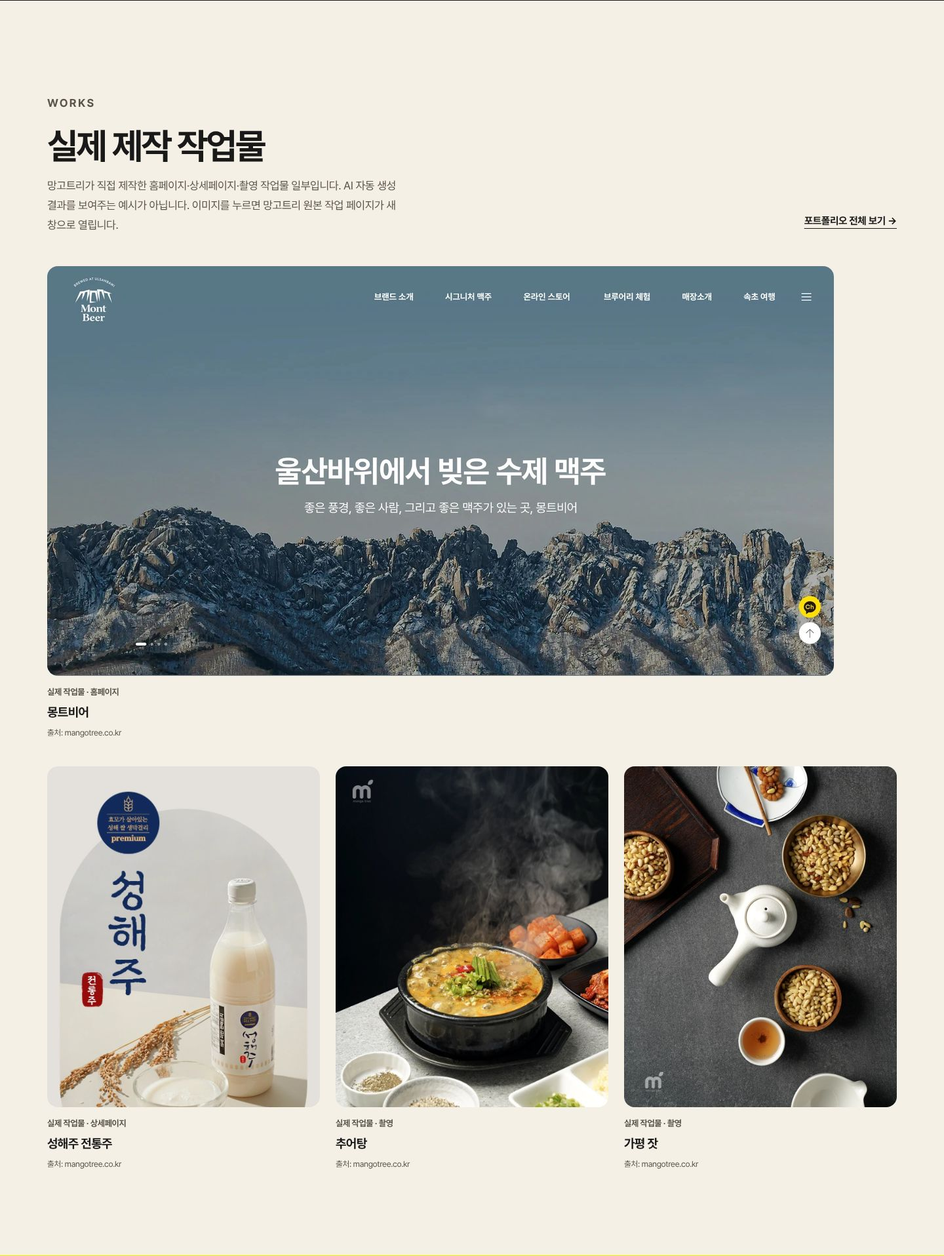
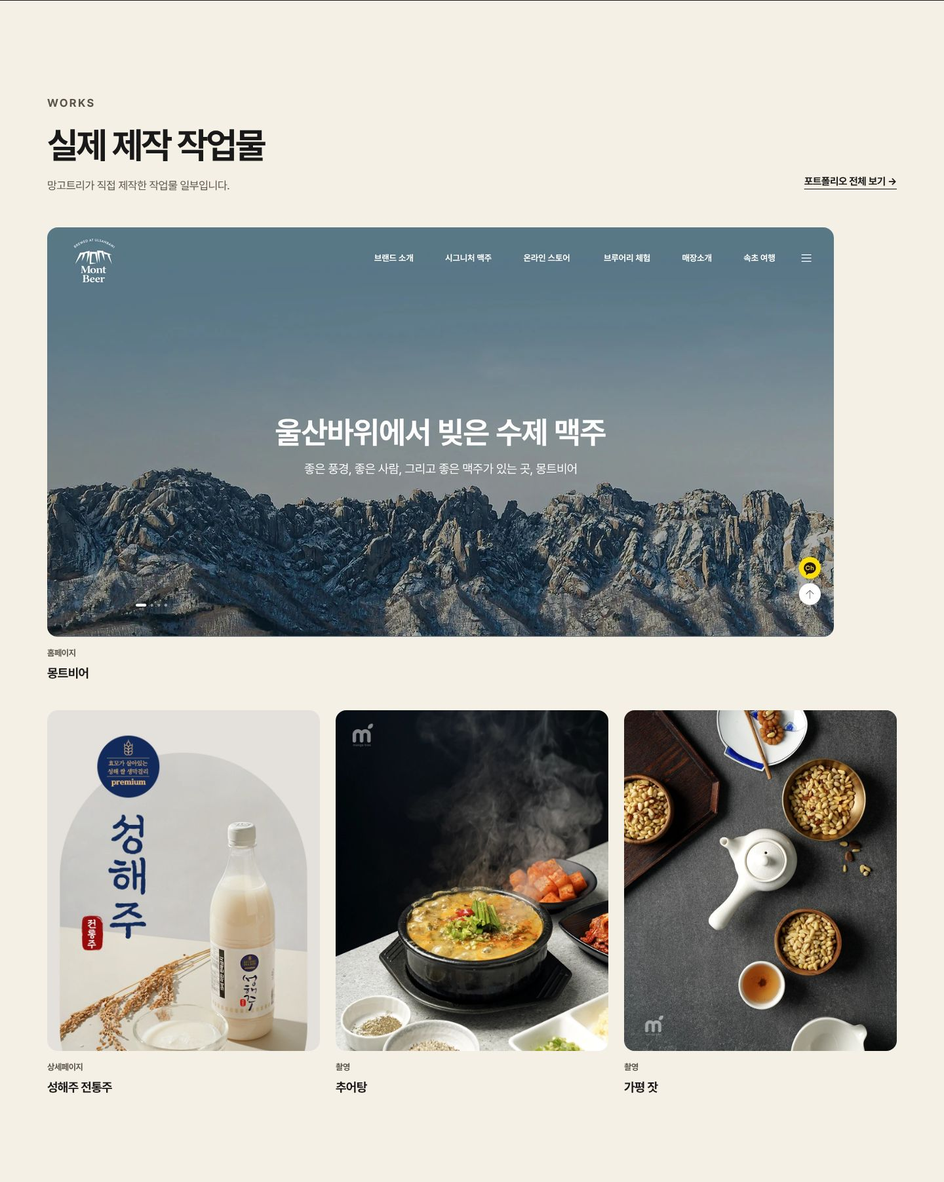
활용사례를 도입 전·후(BEFORE/AFTER) 비교 중심으로 재구성
- 4개 사례마다 BEFORE(도입 전 업무 예시, 회색 HTML 도식)·AFTER(도입 후 제안 흐름, 망고 옐로) 같은 크기 2열,
  흐름 3단계·짧은 문구·변화 요약 한 줄, 모바일은 전→후 세로, 색과 글자로 함께 구분
- 시나리오 03 AFTER는 기획용 스크린샷 대신 문의 분류→먼저 응대→상담원 연결 도식
- 이미지 밑 출처·캡처 날짜·배지·부연 설명 삭제(alt·원본 링크 유지), WORKS는 분류·작품명만
- 상단에 도입 전·후 비교 예시임을 한 줄로 명시, 허구 수치 없음
- usecase 전용 assets/usecase.css 추가, 다른 페이지 변경 없음, 문서 20절·캡처

Claude-Session: https://claude.ai/code/session_013fr5egeuLoPoF5PAHq2igq

diff --git a/usecase.html b/usecase.html
@@ -23,6 +23,7 @@
 <link rel="stylesheet" href="assets/base.css">
 <link rel="stylesheet" href="assets/site.css">
 <link rel="stylesheet" href="assets/sub.css">
+<link rel="stylesheet" href="assets/usecase.css">
 </head>
 <body class="sub">
 <a class="skip-link" href="#main">본문 바로가기</a>
@@ -31,39 +32,59 @@
 <section class="x-hero" aria-labelledby="xTitle">
   <div class="wrap">
     <p class="x-kicker">USE CASE</p>
-    <h1 id="xTitle">커머스 고민별<br><em>AI 도입 시나리오</em></h1>
+    <h1 id="xTitle">도입 전과 후,<br><em>달라지는 일하는 방식</em></h1>
     <div class="x-hero-foot">
-      <p>자주 듣는 네 가지 고민에 어떤 방향으로 AI를 적용하는지 정리했습니다. 실제 적용 범위와 순서는 진단과 상담에서 정합니다.</p>
-      <ul class="x-jump" aria-label="바로가기"><li><a href="#usecase">도입 시나리오</a></li><li><a href="#process">진행 방식</a></li><li><a href="#works">제작 작업물</a></li></ul>
+      <p>자주 듣는 네 가지 고민을 도입 전 업무와 도입 후 제안 흐름으로 나란히 비교했습니다. 실제 적용 범위와 순서는 진단과 상담에서 정합니다.</p>
+      <ul class="x-jump" aria-label="바로가기"><li><a href="#usecase">도입 전·후 비교</a></li><li><a href="#process">진행 방식</a></li><li><a href="#works">제작 작업물</a></li></ul>
     </div>
   </div>
 </section>
 
 <section class="x-sec" id="usecase" aria-labelledby="xScen">
   <div class="wrap">
-    <div class="x-head"><div><p class="x-kicker">SCENARIOS</p><h2 id="xScen">이런 고민에는<br>이렇게 접근합니다</h2>
-    <p>고객의 고민 → 처리 과정 → 보게 될 화면 순서로 정리한 도입 시나리오입니다. 특정 고객의 성과 사례가 아니며, 화면마다 실제 작업물·실제 화면·공식 가이드 이미지를 구분해 표시했습니다.</p></div>
+    <div class="x-head"><div><p class="x-kicker">BEFORE · AFTER</p><h2 id="xScen">네 가지 고민,<br>도입 전과 후</h2>
+    <p class="ba-note">도입 전·후 업무 흐름을 비교한 예시입니다. 실제 적용 범위는 상담에서 정합니다.</p></div>
     <a class="x-link" href="products.html">6가지 AI 제품 보기 →</a></div>
-    <ol class="x-scen x-uc">
-      <li id="scen-1">
-        <span class="x-num">01</span>
-        <div class="x-uc-text"><p class="x-quote">"상품이 잘 안 팔려요"</p><div class="x-dir"><h3>상세페이지와 추천을 함께 개선</h3><p>상품의 강점(USP)이 한눈에 보이도록 상세페이지를 다시 설계하고, 고객 관심사에 맞는 상품을 추천해 구매 결정을 돕습니다.</p><ol class="x-uc-steps" aria-label="처리 과정"><li>진단으로 강점·부족한 점 정리</li><li>상세페이지 재구성·제작</li><li>추천 영역 적용 검토</li></ol><ul class="x-rel" aria-label="관련 제품"><li><a href="products.html#creative">AI CREATIVE</a></li><li><a href="products.html#commerce">AI COMMERCE</a></li><li><a href="platforms.html#pagemaker">페이지메이커</a></li></ul></div></div>
-        <figure class="x-uc-shot tall"><a class="x-uc-frame" href="https://mangotree.co.kr/shop/item.php?it_id=1791434755" target="_blank" rel="noopener noreferrer" tabindex="-1" aria-hidden="true"><img src="assets/usecase/smart-card-detail.webp" width="860" height="1625" alt="스마트카드태그 상세페이지 상단: 싱스원 듀얼 파인드 카드 태그 제품명과 애플·구글 위치 찾기 지원 안내, 카드 제품 사진" loading="lazy" decoding="async"></a><figcaption><span class="wf-badge live">실제 작업물 · 망고트리 제작 상세페이지</span><span class="x-uc-cite">스마트카드태그 상세페이지 일부 · <a href="https://mangotree.co.kr/shop/item.php?it_id=1791434755" target="_blank" rel="noopener noreferrer">원본 작업 페이지<span class="sr-only"> (새 창)</span> ↗</a></span></figcaption></figure>
+    <ol class="ba-list">
+      <li class="ba-case" id="scen-1">
+        <div class="ba-head"><span class="x-num">01</span><p class="x-quote">"상품이 잘 안 팔려요"</p><h3>상세페이지와 추천을 함께 개선</h3></div>
+        <div class="ba-grid">
+          <div class="ba-card before"><p class="ba-label"><span class="ba-tag">BEFORE</span>도입 전 업무 예시</p><ol class="ba-flow" aria-label="도입 전 흐름"><li>상품 정보 입력</li><li>그대로 나열</li><li>게시</li></ol><div class="ba-visual"><div class="ba-sketch" role="img" aria-label="도입 전 예시 도식: 제품명, 용량, 성분, 가격, 배송 안내, 교환 안내가 모두 같은 크기로 나열된 상세페이지"><div class="sk-page"><b>제품명</b><span>용량 · 규격</span><span>성분 · 원재료</span><span>가격</span><span>배송 안내</span><span>교환 · 반품 안내</span><span>보관 방법</span><i>모든 정보가 같은 크기</i></div></div></div><ul class="ba-points"><li>제품명·성분·가격·배송 안내가 같은 비중으로 나열</li><li>구매할 이유가 한눈에 보이지 않음</li><li>함께 볼 상품 안내가 없음</li></ul></div>
+          <span class="ba-arrow" aria-hidden="true"></span>
+          <div class="ba-card after"><p class="ba-label"><span class="ba-tag">AFTER</span>도입 후 제안 흐름</p><ol class="ba-flow" aria-label="도입 후 흐름"><li>강점 정리</li><li>상세페이지 구성·제작</li><li>담당자 검수</li></ol><figure class="ba-visual ba-shot tall"><a href="https://mangotree.co.kr/shop/item.php?it_id=1791434755" target="_blank" rel="noopener noreferrer" tabindex="-1" aria-hidden="true"><img src="assets/usecase/smart-card-detail.webp" width="860" height="1625" alt="스마트카드태그 상세페이지 상단: 싱스원 듀얼 파인드 카드 태그 제품명과 애플·구글 위치 찾기 지원 안내, 카드 제품 사진" loading="lazy" decoding="async"></a></figure><ul class="ba-points"><li>진단으로 강점과 부족한 점을 먼저 정리</li><li>강점이 먼저 보이도록 구성하고 담당자가 검수</li><li>관심사에 맞는 추천 영역 적용 검토</li></ul></div>
+        </div>
+        <p class="ba-sum"><b>변화 요약</b>같은 정보를 나열하던 페이지를, 강점 순서로 정리하고 검수한 상세페이지로 바꿉니다.</p>
+        <ul class="x-rel" aria-label="관련 제품"><li><a href="products.html#creative">AI CREATIVE</a></li><li><a href="products.html#commerce">AI COMMERCE</a></li><li><a href="platforms.html#pagemaker">페이지메이커</a></li></ul>
       </li>
-      <li id="scen-2">
-        <span class="x-num">02</span>
-        <div class="x-uc-text"><p class="x-quote">"콘텐츠 만들 시간이 없어요"</p><div class="x-dir"><h3>이미지·영상 소재 제작을 지원</h3><p>상품 정보를 바탕으로 상세컷·SNS·영상 소재 제작을 AI 도구와 디자이너가 함께 진행합니다.</p><ol class="x-uc-steps" aria-label="처리 과정"><li>기획 방향 정리</li><li>AI 도구로 초안·소재 생성</li><li>디자이너 검수·보정</li></ol><ul class="x-rel" aria-label="관련 제품"><li><a href="products.html#creative">AI CREATIVE</a></li><li><a href="platforms.html#pagemaker">페이지메이커</a></li><li><a href="portfolio.html">제작 작업물</a></li></ul></div></div>
-        <figure class="x-uc-shot wide"><a class="x-uc-frame" href="https://pagemaker.ai.kr/" target="_blank" rel="noopener noreferrer" tabindex="-1" aria-hidden="true"><img src="assets/work/pagemaker.jpg" width="1178" height="589" alt="페이지메이커 AI 이미지 화면: 설명 입력창과 AI 상세페이지·배너·카드뉴스 등 제작 메뉴" loading="lazy" decoding="async"></a><figcaption><span class="wf-badge live">실제 화면 · 2026-10-30 캡처</span><span class="x-uc-cite">페이지메이커 AI 이미지 제작 화면 · <a href="https://pagemaker.ai.kr/" target="_blank" rel="noopener noreferrer">페이지메이커<span class="sr-only"> (새 창)</span> ↗</a></span></figcaption></figure>
+      <li class="ba-case" id="scen-2">
+        <div class="ba-head"><span class="x-num">02</span><p class="x-quote">"콘텐츠 만들 시간이 없어요"</p><h3>이미지·영상 소재 제작을 지원</h3></div>
+        <div class="ba-grid">
+          <div class="ba-card before"><p class="ba-label"><span class="ba-tag">BEFORE</span>도입 전 업무 예시</p><ol class="ba-flow" aria-label="도입 전 흐름"><li>기획</li><li>촬영·편집</li><li>채널별 수정</li></ol><div class="ba-visual"><div class="ba-sketch" role="img" aria-label="도입 전 예시 도식: 상품 A, B, C마다 기획, 촬영, 편집을 처음부터 반복"><div class="sk-repeat"><div class="sk-item"><b>상품 A</b><span>기획</span><span>촬영</span><span>편집</span></div><div class="sk-item"><b>상품 B</b><span>기획</span><span>촬영</span><span>편집</span></div><div class="sk-item"><b>상품 C</b><span>기획</span><span>촬영</span><span>편집</span></div><i>↻ 상품마다 처음부터 반복</i></div></div></div><ul class="ba-points"><li>상품마다 기획·촬영·편집을 처음부터 진행</li><li>채널마다 크기와 문구를 다시 맞춤</li><li>수정 요청이 쌓이면 일정이 밀림</li></ul></div>
+          <span class="ba-arrow" aria-hidden="true"></span>
+          <div class="ba-card after"><p class="ba-label"><span class="ba-tag">AFTER</span>도입 후 제안 흐름</p><ol class="ba-flow" aria-label="도입 후 흐름"><li>AI 초안</li><li>디자이너 검수</li><li>소재 완성</li></ol><figure class="ba-visual ba-shot"><a href="https://pagemaker.ai.kr/" target="_blank" rel="noopener noreferrer" tabindex="-1" aria-hidden="true"><img src="assets/work/pagemaker.jpg" width="1178" height="589" alt="페이지메이커 AI 이미지 화면: 설명 입력창과 AI 상세페이지·배너·카드뉴스 등 제작 메뉴" loading="lazy" decoding="async"></a></figure><ul class="ba-points"><li>AI 도구로 초안과 소재를 먼저 생성</li><li>디자이너가 검수하고 보정</li><li>같은 기획을 채널 규격에 맞게 정리</li></ul></div>
+        </div>
+        <p class="ba-sum"><b>변화 요약</b>매번 처음부터 만들던 소재를, AI 초안에서 시작해 디자이너가 다듬는 방식으로 바꿉니다.</p>
+        <ul class="x-rel" aria-label="관련 제품"><li><a href="products.html#creative">AI CREATIVE</a></li><li><a href="platforms.html#pagemaker">페이지메이커</a></li><li><a href="portfolio.html">제작 작업물</a></li></ul>
       </li>
-      <li id="scen-3">
-        <span class="x-num">03</span>
-        <div class="x-uc-text"><p class="x-quote">"고객 문의가 너무 많아요"</p><div class="x-dir"><h3>반복 문의에 AI 상담 적용</h3><p>자주 묻는 질문을 자연어로 답하는 AI 상담을 붙여 반복 문의 응대를 돕고, 상담원은 중요한 문의에 집중하게 합니다.</p><ol class="x-uc-steps" aria-label="처리 과정"><li>자주 묻는 질문·답변 정리</li><li>대화형 응대 화면 구성</li><li>상담원 연결 기준 설정</li></ol><ul class="x-rel" aria-label="관련 제품"><li><a href="products.html#agent-ai">AI AGENT</a></li><li><a href="products.html#commerce">AI COMMERCE</a></li></ul></div></div>
-        <figure class="x-uc-shot phone"><a class="x-uc-frame" href="https://page-writer-dckreoozc-mtree712-6778s-projects.vercel.app/" target="_blank" rel="noopener noreferrer" tabindex="-1" aria-hidden="true"><img src="assets/workflows/ai-planning.jpg" width="680" height="712" alt="망고트리 AI 기획 도우미 대화 화면: 인사말과 질문, 상세페이지·홈페이지·카탈로그·포장디자인 선택 버튼" loading="lazy" decoding="async"></a><figcaption><span class="wf-badge live">실제 화면 · 대화형 화면 예시</span><span class="x-uc-cite">망고트리 AI 기획 도우미(기획용)의 대화 화면입니다. 쇼핑몰 상담용 화면은 상담에서 범위를 정해 구성합니다 · <a href="https://page-writer-dckreoozc-mtree712-6778s-projects.vercel.app/" target="_blank" rel="noopener noreferrer">망고트리 AI 기획<span class="sr-only"> (새 창)</span> ↗</a></span></figcaption></figure>
+      <li class="ba-case" id="scen-3">
+        <div class="ba-head"><span class="x-num">03</span><p class="x-quote">"고객 문의가 너무 많아요"</p><h3>반복 문의에 AI 상담 적용</h3></div>
+        <div class="ba-grid">
+          <div class="ba-card before"><p class="ba-label"><span class="ba-tag">BEFORE</span>도입 전 업무 예시</p><ol class="ba-flow" aria-label="도입 전 흐름"><li>문의 접수</li><li>담당자 확인</li><li>하나씩 답변</li></ol><div class="ba-visual"><div class="ba-sketch" role="img" aria-label="도입 전 예시 도식: 배송·재고·교환을 묻는 비슷한 질문 여러 개를 담당자 한 명이 하나씩 답변"><div class="sk-chat"><span>배송 언제 와요?</span><span>언제 도착하나요?</span><span>재고 있나요?</span><span>교환은 어떻게 해요?</span><b>담당자 1명이 하나씩 답변</b></div></div></div><ul class="ba-points"><li>배송·재고·교환 질문에 같은 답을 반복</li><li>담당자 한 명이 모든 채널을 응대</li><li>중요한 문의가 뒤로 밀림</li></ul></div>
+          <span class="ba-arrow" aria-hidden="true"></span>
+          <div class="ba-card after"><p class="ba-label"><span class="ba-tag">AFTER</span>도입 후 제안 흐름</p><ol class="ba-flow" aria-label="도입 후 흐름"><li>자주 묻는 질문 분류</li><li>대화형 화면에서 응대</li><li>상담원 연결</li></ol><div class="ba-visual"><div class="ba-sketch" role="img" aria-label="도입 후 예시 도식: 배송·재고·교환 질문을 유형별로 분류해 대화형 화면에서 먼저 답하고, 답하기 어려운 문의만 상담원에게 연결"><div class="sk-route"><div class="sk-q"><span>배송 문의</span><span>재고 문의</span><span>교환 문의</span></div><div class="sk-bot"><b>자주 묻는 질문 먼저 응대</b><span>배송 · 재고 · 교환 답변</span></div><div class="sk-human"><b>상담원 연결</b><span>답하기 어려운 문의만</span></div></div></div></div><ul class="ba-points"><li>자주 묻는 질문과 답변을 분류해 정리</li><li>대화형 화면에서 먼저 응대</li><li>필요한 문의는 상담원에게 연결</li></ul></div>
+        </div>
+        <p class="ba-sum"><b>변화 요약</b>같은 질문에 하나씩 답하던 일을, 먼저 응대하고 필요한 문의만 상담원에게 넘기는 흐름으로 바꿉니다.</p>
+        <ul class="x-rel" aria-label="관련 제품"><li><a href="products.html#agent-ai">AI AGENT</a></li><li><a href="products.html#commerce">AI COMMERCE</a></li></ul>
       </li>
-      <li id="scen-4">
-        <span class="x-num">04</span>
-        <div class="x-uc-text"><p class="x-quote">"데이터가 뭘 말하는지 몰라요"</p><div class="x-dir"><h3>데이터를 모아 다음 할 일 제안</h3><p>매출·고객·광고 데이터를 한곳에 모아 분석하고, 지금 살펴볼 항목과 다음 할 일을 정리해 드립니다.</p><ol class="x-uc-steps" aria-label="처리 과정"><li>흩어진 데이터 모으기</li><li>클릭·구매 추이 확인</li><li>살펴볼 항목·다음 할 일 정리</li></ol><ul class="x-rel" aria-label="관련 제품"><li><a href="products.html#insight">AI INSIGHT</a></li><li><a href="products.html#flow">AI FLOW</a></li></ul></div></div>
-        <figure class="x-uc-shot wide"><a class="x-uc-frame" href="assets/workflows/connect-guide5.jpg" target="_blank" rel="noopener noreferrer" tabindex="-1" aria-hidden="true"><img src="assets/workflows/guide5-report-crop.jpg" width="1300" height="828" alt="페이지커넥트 이용 가이드 일부 확대: 일별·월별 실적(클릭·구매 건수·합산 금액·수익·전환율)과 클릭·검색 추이 그래프, 값은 예시" loading="lazy" decoding="async"></a><figcaption><span class="wf-badge guide">공식 가이드 이미지 일부 확대 · 값은 예시</span><span class="x-uc-cite">페이지커넥트 실적 리포트 (baechesa.kr 이용 가이드) · <a href="assets/workflows/connect-guide5.jpg" target="_blank" rel="noopener noreferrer">가이드 원본 이미지<span class="sr-only"> (새 창)</span> ↗</a></span></figcaption></figure>
+      <li class="ba-case" id="scen-4">
+        <div class="ba-head"><span class="x-num">04</span><p class="x-quote">"데이터가 뭘 말하는지 몰라요"</p><h3>데이터를 모아 다음 할 일 제안</h3></div>
+        <div class="ba-grid">
+          <div class="ba-card before"><p class="ba-label"><span class="ba-tag">BEFORE</span>도입 전 업무 예시</p><ol class="ba-flow" aria-label="도입 전 흐름"><li>자료 따로 확인</li><li>수작업 정리</li><li>판단 보류</li></ol><div class="ba-visual"><div class="ba-sketch" role="img" aria-label="도입 전 예시 도식: 매출 엑셀, 광고 관리자, 주문 내역, 메모가 각각 흩어져 있음"><div class="sk-files"><span>매출 엑셀</span><span>광고 관리자</span><span>주문 내역</span><span>메모</span><i>자료가 각각 흩어져 있음</i></div></div></div><ul class="ba-points"><li>매출·광고·주문 자료를 각각 따로 확인</li><li>자료를 맞추는 데 시간이 듦</li><li>무엇부터 할지 정하기 어려움</li></ul></div>
+          <span class="ba-arrow" aria-hidden="true"></span>
+          <div class="ba-card after"><p class="ba-label"><span class="ba-tag">AFTER</span>도입 후 제안 흐름</p><ol class="ba-flow" aria-label="도입 후 흐름"><li>데이터 모으기</li><li>추이 확인</li><li>다음 할 일 정리</li></ol><figure class="ba-visual ba-shot"><a href="assets/workflows/connect-guide5.jpg" target="_blank" rel="noopener noreferrer" tabindex="-1" aria-hidden="true"><img src="assets/workflows/guide5-report-crop.jpg" width="1300" height="828" alt="페이지커넥트 이용 가이드 일부 확대: 일별·월별 실적(클릭·구매 건수·합산 금액·수익·전환율)과 클릭·검색 추이 그래프, 값은 예시" loading="lazy" decoding="async"></a></figure><ul class="ba-points"><li>매출·광고·주문 자료를 한곳에 모음</li><li>클릭·구매 추이를 한 화면에서 확인</li><li>살펴볼 항목과 다음 할 일을 정리</li></ul></div>
+        </div>
+        <p class="ba-sum"><b>변화 요약</b>흩어진 자료를 각각 보던 일을, 한곳에 모아 추이를 보고 다음 할 일을 정하는 흐름으로 바꿉니다.</p>
+        <ul class="x-rel" aria-label="관련 제품"><li><a href="products.html#insight">AI INSIGHT</a></li><li><a href="products.html#flow">AI FLOW</a></li></ul>
       </li>
     </ol>
   </div>
@@ -83,9 +104,9 @@
 <section class="x-sec ivory" id="works" aria-labelledby="xWorks">
   <div class="wrap">
     <div class="x-head"><div><p class="x-kicker">WORKS</p><h2 id="xWorks">실제 제작 작업물</h2>
-    <p>망고트리가 직접 제작한 홈페이지·상세페이지·촬영 작업물 일부입니다. AI 자동 생성 결과를 보여주는 예시가 아닙니다. 이미지를 누르면 망고트리 원본 작업 페이지가 새 창으로 열립니다.</p></div>
+    <p>망고트리가 직접 제작한 작업물 일부입니다.</p></div>
     <a class="x-link" href="portfolio.html">포트폴리오 전체 보기 →</a></div>
-    <ul class="x-hworks"><li class="x-hw wide"><figure><a class="x-hw-frame" href="https://mangotree.co.kr/shop/item.php?it_id=1782459525&amp;pname=homepage" target="_blank" rel="noopener noreferrer"><img src="assets/usecase/montbeer-home.webp" width="1200" height="625" alt="몽트비어 홈페이지 첫 화면: 울산바위 산 풍경 위 「울산바위에서 빚은 수제 맥주」" loading="lazy" decoding="async"><span class="sr-only">몽트비어 홈페이지 작업물 — 망고트리 원본 작업 페이지 (새 창)</span></a><figcaption><span class="x-wcat">실제 작업물 · 홈페이지</span><span class="x-wname">몽트비어</span><span class="x-wsrc">출처: mangotree.co.kr</span></figcaption></figure></li><li class="x-hw "><figure><a class="x-hw-frame" href="https://mangotree.co.kr/shop/item.php?it_id=1782460001" target="_blank" rel="noopener noreferrer"><img src="assets/usecase/seonghaeju-detail.webp" width="860" height="1500" alt="성해주 전통주 상세페이지 상단: 성해주 로고와 막걸리 병, 쌀 그릇 연출" loading="lazy" decoding="async"><span class="sr-only">성해주 전통주 상세페이지 작업물 — 망고트리 원본 작업 페이지 (새 창)</span></a><figcaption><span class="x-wcat">실제 작업물 · 상세페이지</span><span class="x-wname">성해주 전통주</span><span class="x-wsrc">출처: mangotree.co.kr</span></figcaption></figure></li><li class="x-hw "><figure><a class="x-hw-frame" href="https://mangotree.co.kr/bbs/board.php?bo_table=gallery&amp;wr_id=2824" target="_blank" rel="noopener noreferrer"><img src="assets/usecase/chueotang-photo.webp" width="1000" height="1500" alt="추어탕 음식 촬영: 김이 오르는 뚝배기 추어탕과 반찬·양념" loading="lazy" decoding="async"><span class="sr-only">추어탕 촬영 작업물 — 망고트리 원본 작업 페이지 (새 창)</span></a><figcaption><span class="x-wcat">실제 작업물 · 촬영</span><span class="x-wname">추어탕</span><span class="x-wsrc">출처: mangotree.co.kr</span></figcaption></figure></li><li class="x-hw "><figure><a class="x-hw-frame" href="https://mangotree.co.kr/bbs/board.php?bo_table=gallery&amp;wr_id=2784" target="_blank" rel="noopener noreferrer"><img src="assets/usecase/gapyeong-pinenuts-photo.webp" width="1000" height="1250" alt="가평 잣 제품 촬영: 그릇에 담긴 잣과 찻주전자·찻잔 연출" loading="lazy" decoding="async"><span class="sr-only">가평 잣 촬영 작업물 — 망고트리 원본 작업 페이지 (새 창)</span></a><figcaption><span class="x-wcat">실제 작업물 · 촬영</span><span class="x-wname">가평 잣</span><span class="x-wsrc">출처: mangotree.co.kr</span></figcaption></figure></li></ul>
+    <ul class="x-hworks"><li class="x-hw wide"><figure><a class="x-hw-frame" href="https://mangotree.co.kr/shop/item.php?it_id=1782459525&amp;pname=homepage" target="_blank" rel="noopener noreferrer"><img src="assets/usecase/montbeer-home.webp" width="1200" height="625" alt="몽트비어 홈페이지 첫 화면: 울산바위 산 풍경 위 「울산바위에서 빚은 수제 맥주」" loading="lazy" decoding="async"><span class="sr-only">몽트비어 홈페이지 작업물 — 망고트리 원본 작업 페이지 (새 창)</span></a><figcaption><span class="x-wcat">홈페이지</span><span class="x-wname">몽트비어</span></figcaption></figure></li><li class="x-hw "><figure><a class="x-hw-frame" href="https://mangotree.co.kr/shop/item.php?it_id=1782460001" target="_blank" rel="noopener noreferrer"><img src="assets/usecase/seonghaeju-detail.webp" width="860" height="1500" alt="성해주 전통주 상세페이지 상단: 성해주 로고와 막걸리 병, 쌀 그릇 연출" loading="lazy" decoding="async"><span class="sr-only">성해주 전통주 상세페이지 작업물 — 망고트리 원본 작업 페이지 (새 창)</span></a><figcaption><span class="x-wcat">상세페이지</span><span class="x-wname">성해주 전통주</span></figcaption></figure></li><li class="x-hw "><figure><a class="x-hw-frame" href="https://mangotree.co.kr/bbs/board.php?bo_table=gallery&amp;wr_id=2824" target="_blank" rel="noopener noreferrer"><img src="assets/usecase/chueotang-photo.webp" width="1000" height="1500" alt="추어탕 음식 촬영: 김이 오르는 뚝배기 추어탕과 반찬·양념" loading="lazy" decoding="async"><span class="sr-only">추어탕 촬영 작업물 — 망고트리 원본 작업 페이지 (새 창)</span></a><figcaption><span class="x-wcat">촬영</span><span class="x-wname">추어탕</span></figcaption></figure></li><li class="x-hw "><figure><a class="x-hw-frame" href="https://mangotree.co.kr/bbs/board.php?bo_table=gallery&amp;wr_id=2784" target="_blank" rel="noopener noreferrer"><img src="assets/usecase/gapyeong-pinenuts-photo.webp" width="1000" height="1250" alt="가평 잣 제품 촬영: 그릇에 담긴 잣과 찻주전자·찻잔 연출" loading="lazy" decoding="async"><span class="sr-only">가평 잣 촬영 작업물 — 망고트리 원본 작업 페이지 (새 창)</span></a><figcaption><span class="x-wcat">촬영</span><span class="x-wname">가평 잣</span></figcaption></figure></li></ul>
   </div>
 </section>
 

diff --git a/assets/usecase.css b/assets/usecase.css
@@ -1,0 +1,113 @@
+/* 활용사례 전용: 도입 전(BEFORE)·도입 후(AFTER) 비교
+   BEFORE는 회색, AFTER는 망고 옐로. 색만이 아니라 BEFORE/AFTER 글자와 「도입 전/후」 문구로도 구분한다.
+   BEFORE 도식은 HTML·CSS로 그린 간단한 업무 예시이며 실제 고객 화면이 아니다. 흐리게 처리하지 않는다. */
+.ba-note{font-weight:600;color:var(--charcoal)!important}
+.ba-list{list-style:none;margin:0;padding:0;border-top:2px solid var(--charcoal)}
+.ba-case{padding:56px 0 52px;border-bottom:1px solid rgba(22,22,22,.16)}
+.ba-head{display:grid;grid-template-columns:72px minmax(0,1fr);align-items:baseline;gap:4px 0}
+.ba-head .x-quote,.ba-head h3{grid-column:2}
+.ba-head h3{font-size:clamp(19px,1.7vw,23px);letter-spacing:-.03em;margin-top:6px}
+
+/* 같은 크기 2열 + 가운데 화살표 */
+.ba-grid{display:grid;grid-template-columns:minmax(0,1fr) 48px minmax(0,1fr);align-items:stretch;margin-top:32px}
+.ba-card{display:flex;flex-direction:column;border-radius:20px;padding:28px 28px 26px;min-width:0}
+.ba-card.before{background:#EFEDE8;border:1px solid #D9D5CC;color:#2E2B26}
+.ba-card.after{background:#FFF7C2;border:2px solid var(--mango);color:var(--charcoal)}
+.ba-arrow{align-self:center;justify-self:center;width:40px;height:40px;border-radius:50%;background:var(--charcoal);position:relative}
+.ba-arrow::after{content:"";position:absolute;left:13px;top:14px;width:10px;height:10px;border-top:2.5px solid #fff;border-right:2.5px solid #fff;transform:rotate(45deg)}
+
+.ba-label{display:flex;align-items:center;gap:10px;font-size:15px;font-weight:700}
+.ba-tag{display:inline-flex;align-items:center;height:28px;padding:0 12px;border-radius:8px;font-size:13px;font-weight:800;letter-spacing:.08em}
+.before .ba-tag{background:#5A554C;color:#fff}
+.after .ba-tag{background:var(--charcoal);color:var(--mango)}
+
+/* 흐름 칩 */
+.ba-flow{list-style:none;display:flex;flex-wrap:wrap;align-items:center;gap:6px 0;margin:16px 0 18px;padding:0;counter-reset:baf}
+.ba-flow li{counter-increment:baf;display:inline-flex;align-items:center;gap:6px;font-size:14px;font-weight:700;padding:7px 12px;border-radius:999px}
+.ba-flow li::before{content:counter(baf);display:inline-grid;place-items:center;width:20px;height:20px;border-radius:50%;font-size:11.5px;font-weight:800}
+.ba-flow li+li{margin-left:22px;position:relative}
+.ba-flow li+li::after{content:"→";position:absolute;left:-18px;font-weight:700}
+.before .ba-flow li{background:#fff;border:1px solid #CFCAC0}
+.before .ba-flow li::before{background:#8A857B;color:#fff}
+.before .ba-flow li+li::after{color:#8A857B}
+.after .ba-flow li{background:var(--mango);border:1px solid #E5CE00}
+.after .ba-flow li::before{background:var(--charcoal);color:var(--mango)}
+
+/* 같은 크기의 그림 영역 */
+.ba-visual{margin:0;aspect-ratio:1/1;border-radius:14px;overflow:hidden;display:grid;place-items:center}
+.before .ba-visual{background:#fff;border:1px dashed #BDB7AC}
+.after .ba-visual{background:#fff;border:1px solid rgba(22,22,22,.14)}
+.ba-shot{grid-template-rows:minmax(0,1fr);place-items:stretch}
+.ba-shot>a{position:relative;display:block;min-height:0;overflow:hidden;cursor:zoom-in}
+.ba-shot img{position:absolute;inset:12px;width:calc(100% - 24px);height:calc(100% - 24px);object-fit:contain}
+
+.ba-points{list-style:none;display:grid;gap:8px;margin:20px 0 0;padding:0}
+.ba-points li{position:relative;padding-left:22px;font-size:15.5px;line-height:1.6}
+.ba-points li::before{position:absolute;left:0;top:0;font-weight:800}
+.before .ba-points li::before{content:"–";color:#6B665D}
+.after .ba-points li::before{content:"✓";color:var(--charcoal)}
+
+.ba-sum{display:flex;flex-wrap:wrap;gap:6px 14px;align-items:baseline;margin-top:24px;padding:16px 20px;border-radius:12px;background:var(--charcoal);color:#fff;font-size:16px;line-height:1.6}
+.ba-sum b{color:var(--mango);font-size:13px;letter-spacing:.06em;white-space:nowrap}
+.ba-case .x-rel{margin-top:18px}
+
+/* BEFORE 도식 (HTML·CSS) */
+.ba-sketch{width:100%;height:100%;display:grid;place-items:center;padding:24px}
+.sk-page{width:min(100%,300px);display:grid;gap:8px;padding:20px;border:1.5px solid #BDB7AC;border-radius:10px;background:#FAFAF8}
+.sk-page b,.sk-page span{display:block;font-size:14px;line-height:1.3;padding:8px 10px;background:#ECEAE4;border-radius:6px;color:#3B3832;font-weight:600}
+.sk-page i,.sk-repeat i,.sk-files i{font-style:normal;font-size:13px;font-weight:700;color:#5A554C;text-align:center;margin-top:6px}
+.sk-repeat{width:100%;display:grid;grid-template-columns:repeat(3,minmax(0,1fr));gap:10px}
+.sk-repeat i{grid-column:1/-1}
+.sk-item{display:grid;gap:6px;padding:12px 10px;border:1.5px solid #BDB7AC;border-radius:10px;background:#FAFAF8}
+.sk-item b{font-size:14px;color:#2E2B26}
+.sk-item span{font-size:13px;padding:6px 8px;border-radius:6px;background:#ECEAE4;color:#3B3832;font-weight:600}
+.sk-chat{width:min(100%,320px);display:grid;gap:10px}
+.sk-chat span{justify-self:start;max-width:85%;font-size:14px;font-weight:600;padding:9px 14px;border-radius:14px 14px 14px 4px;background:#ECEAE4;color:#2E2B26;border:1px solid #D2CDC3}
+.sk-chat span:nth-child(even){justify-self:end;border-radius:14px 14px 4px 14px}
+.sk-chat b{justify-self:center;margin-top:8px;font-size:13.5px;padding:8px 14px;border-radius:999px;background:#5A554C;color:#fff}
+.sk-files{width:min(100%,320px);display:grid;grid-template-columns:1fr 1fr;gap:14px}
+.sk-files span{display:grid;place-items:center;min-height:72px;font-size:14px;font-weight:700;color:#2E2B26;background:#FAFAF8;border:1.5px dashed #A9A397;border-radius:10px}
+.sk-files span:nth-child(1){transform:rotate(-3deg)}
+.sk-files span:nth-child(2){transform:rotate(2deg) translateY(8px)}
+.sk-files span:nth-child(3){transform:rotate(2deg)}
+.sk-files span:nth-child(4){transform:rotate(-2deg) translateY(6px)}
+.sk-files i{grid-column:1/-1;margin-top:12px}
+
+/* 태블릿 이하: 도입 전 → 도입 후 세로 */
+@media(max-width:860px){
+  .ba-head{grid-template-columns:48px minmax(0,1fr)}
+  .ba-grid{grid-template-columns:minmax(0,1fr);grid-template-rows:auto 48px auto}
+  .ba-arrow{transform:rotate(90deg)}
+  .ba-visual{aspect-ratio:auto}
+  .before .ba-visual{min-height:260px}
+  .ba-shot>a{display:grid;place-items:center;padding:12px}
+  .ba-shot img{position:static;width:100%;height:auto;max-height:496px;object-fit:contain}
+}
+@media(max-width:560px){
+  .ba-case{padding:40px 0}
+  .ba-head{grid-template-columns:1fr}
+  .ba-head .x-num{margin-bottom:6px}
+  .ba-head .x-quote,.ba-head h3{grid-column:1}
+  .ba-card{padding:22px 18px 20px;border-radius:16px}
+  .ba-flow li{font-size:13px;padding:6px 10px}
+  .ba-flow li+li{margin-left:20px}
+  .ba-sketch{padding:16px}
+  .sk-repeat{gap:6px}
+  .sk-item{padding:10px 6px}
+  .sk-item span{font-size:12px;padding:5px 6px}
+  .ba-points li{font-size:15px}
+  .ba-sum{font-size:15px;padding:14px 16px}
+}
+
+/* AFTER 도식 (시나리오 03: 문의 분류 → 먼저 응대 → 상담원 연결) */
+.after .ba-visual .ba-sketch{background:#fff}
+.sk-route{width:min(100%,340px);display:grid;gap:12px;justify-items:center}
+.sk-q{display:flex;flex-wrap:wrap;justify-content:center;gap:8px}
+.sk-q span{font-size:13.5px;font-weight:700;padding:7px 12px;border-radius:999px;background:#FFF7C2;border:1px solid #E5CE00;color:#161616}
+.sk-bot,.sk-human{width:100%;display:grid;gap:4px;text-align:center;padding:14px 16px;border-radius:12px;position:relative}
+.sk-bot{background:var(--mango);color:#161616}
+.sk-human{background:#161616;color:#fff}
+.sk-bot b,.sk-human b{font-size:15.5px}
+.sk-bot span{font-size:13px;font-weight:600}
+.sk-human span{font-size:13px;color:#E8E3D8}
+.sk-bot::before,.sk-human::before{content:"↓";position:absolute;top:-20px;left:50%;transform:translateX(-50%);font-weight:800;color:#161616;font-size:14px}
